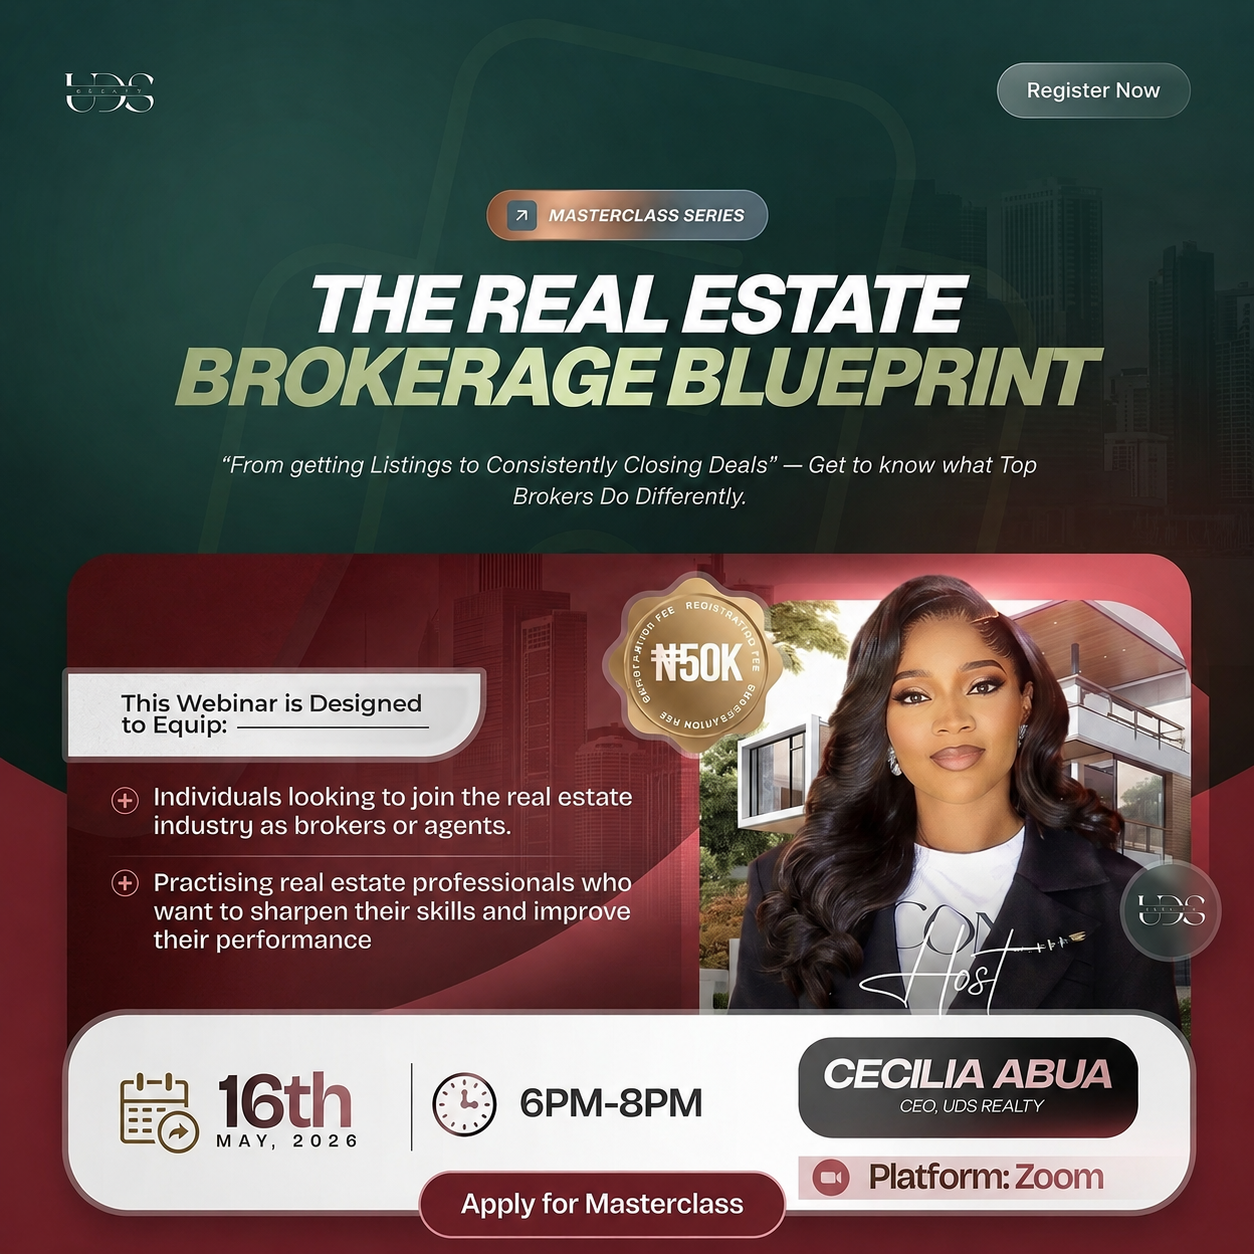
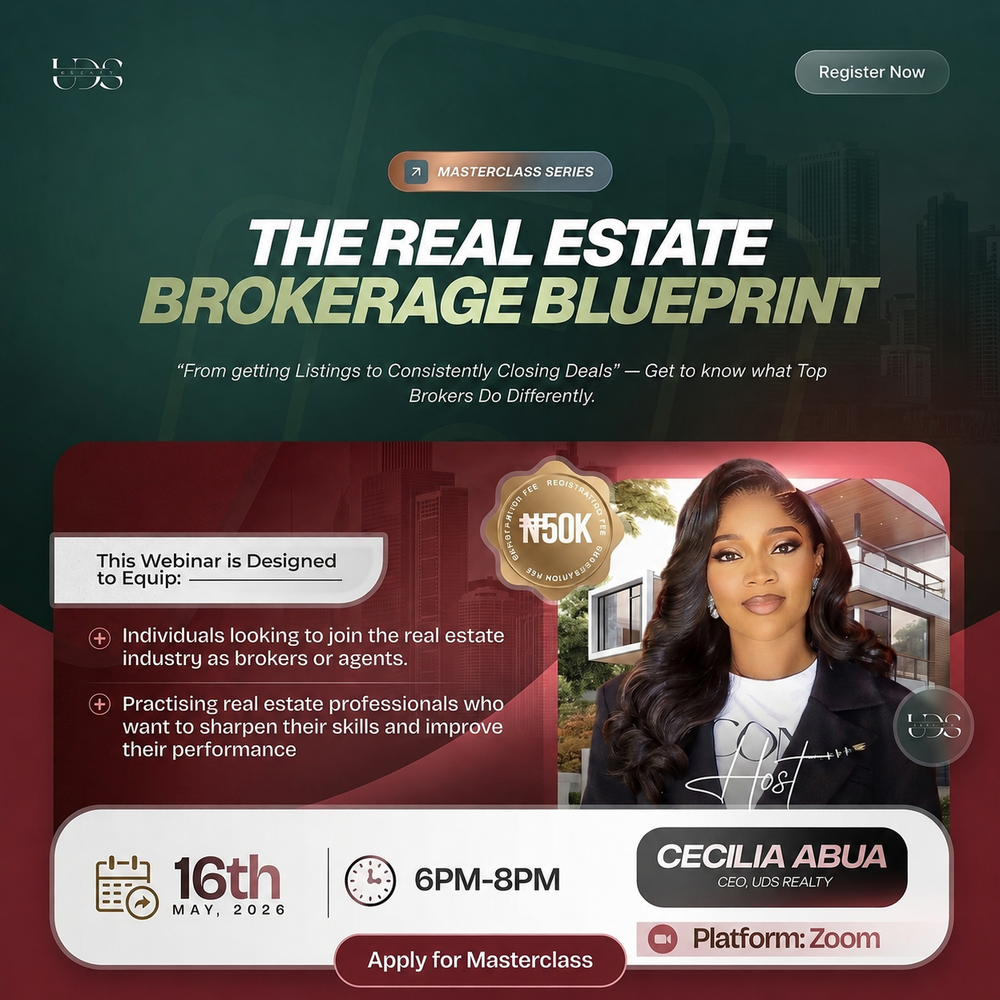
Optimize all project images with high-performance WebP formats and compressed fallbacks (95% size reduction)

Changed region(s): [[0.403, 0.372, 0.465, 0.403], [0.527, 0.372, 0.558, 0.403]]

diff --git a/index.html b/index.html
@@ -632,7 +632,7 @@ const projects=[
    name:'GymPilotPro',
    type:'AI-Powered Gym Management SaaS',
    tags:['SaaS','AI','Next.js','PostgreSQL'],
-   img:'gympilotpro.png',
+   img:'gympilotpro.webp',
    live:'https://gympilotpro.com',
    github:'https://github.com/Sliver14/gympilotpro',
    desc:'A comprehensive AI-driven ecosystem for gym owners. Featuring automated membership management, real-time analytics, AI-powered workout recommendations, and seamless trainer-client communication.',
@@ -648,7 +648,7 @@ const projects=[
    name:'Reno',
    type:'Cross-Platform FinTech & Crypto App',
    tags:['FinTech','React Native','Expo','Crypto','TypeScript'],
-   img:'reno-flyer.png',
+   img:'reno-flyer.webp',
    live:'https://drive.google.com/file/d/1byRoGDm47X0Srv4QjrFLX_34sRhGobHK/view?usp=sharing',
    github:'https://github.com/Sliver14/Reno',
    desc:'A modern FinTech mobile application bridging traditional banking with the crypto economy. Built with React Native and Expo, offering a unified platform for managing fiat (Naira) and digital assets.',
@@ -664,7 +664,7 @@ const projects=[
    name:'Network for Medical Missions',
    type:'Global Healthcare Outreach Platform',
    tags:['Healthcare','Next.js','Firebase','Global Outreach'],
-   img:'medical-missions.png',
+   img:'medical-missions.webp',
    live:'https://networkformedicalmissions.org',
    github:'https://github.com/Sliver14/networkformedicalmissions',
    desc:'A platform dedicated to coordinating and supporting medical missions globally, connecting volunteer healthcare professionals with clinics and communities worldwide.',
@@ -680,7 +680,7 @@ const projects=[
    name:'Esther Odejobi',
    type:'Executive Brand & Speaking Portfolio',
    tags:['Personal Brand','Frontend','React','Animations'],
-   img:'esther.png',
+   img:'esther.webp',
    live:'https://www.estherodejobi.com',
    github:'https://github.com/Sliver14/Esther-Odejobi',
    desc:'A high-converting personal brand, speaking portfolio and authority platform for author, speaker, and executive leader Esther Odejobi.',
@@ -696,7 +696,7 @@ const projects=[
    name:'Cecilia Abua',
    type:'Real Estate Brokerage Blueprint',
    tags:['Real Estate','Next.js','TailwindCSS','Web Design'],
-   img:'cecilia-abua.png',
+   img:'cecilia-abua.webp',
    live:'https://www.ceciliaabua.com',
    github:'https://github.com/Sliver14/cecilibua',
    desc:'Personal portfolio and high-converting commercial showcase for Cecilia Abua — providing investors with tailored real estate investment guidance and blueprint resources.',
@@ -721,7 +721,7 @@ document.getElementById('mq').innerHTML=[...marquee,...marquee,...marquee,...mar
 const stage=document.getElementById('stage');
 stage.innerHTML=projects.map((p,i)=>{
   const domain=p.live?p.live.replace(/^https?:\/\//,'').replace(/^www\./,'').split('/')[0]:p.name.toLowerCase()+'.app';
-  return `<div class="sl" data-i="${i}"><div class="pc"><div class="art"><div class="art-bar"><span class="art-dots"><i></i><i></i><i></i></span><span class="art-url">${domain}</span><span style="font-size:10px;font-weight:700;letter-spacing:.5px;color:var(--violet)">0${i+1}/0${projects.length}</span></div><div class="art-screen"><img src="${p.img}" alt="${p.name}" loading="lazy"><div class="art-overlay"></div><span class="art-tag">${p.tags[0]}</span></div></div><div class="pl"><div class="pl-head"><div><h4>${p.name}</h4><div class="pl-type">${p.type}</div></div></div><p class="pl-desc">${p.desc}</p><div class="pc-tags">${p.tags.slice(0,3).map(t=>`<span>${t}</span>`).join('')}</div><div class="pc-foot"><span class="pc-cta">Explore Architecture</span><span class="view-arr">↗</span></div></div></div></div>`;
+  return `<div class="sl" data-i="${i}"><div class="pc"><div class="art"><div class="art-bar"><span class="art-dots"><i></i><i></i><i></i></span><span class="art-url">${domain}</span><span style="font-size:10px;font-weight:700;letter-spacing:.5px;color:var(--violet)">0${i+1}/0${projects.length}</span></div><div class="art-screen"><img src="${p.img}" alt="${p.name}" ${i===0?'fetchpriority="high"':'loading="lazy"'} onerror="this.onerror=null;this.src=this.src.replace('.webp','.png')"><div class="art-overlay"></div><span class="art-tag">${p.tags[0]}</span></div></div><div class="pl"><div class="pl-head"><div><h4>${p.name}</h4><div class="pl-type">${p.type}</div></div></div><p class="pl-desc">${p.desc}</p><div class="pc-tags">${p.tags.slice(0,3).map(t=>`<span>${t}</span>`).join('')}</div><div class="pc-foot"><span class="pc-cta">Explore Architecture</span><span class="view-arr">↗</span></div></div></div></div>`;
 }).join('');
 document.getElementById('pd').innerHTML=projects.map((_,i)=>`<i data-i="${i}"></i>`).join('');
 
@@ -805,7 +805,7 @@ function openP(p){
     <span class="eb" style="margin-bottom:6px">${p.type}</span>
     <h3 style="margin-top:4px">${p.name}</h3>
     <div class="mb-img">
-      <img src="${p.img}" alt="${p.name}">
+      <img src="${p.img}" alt="${p.name}" loading="lazy" onerror="this.onerror=null;this.src=this.src.replace('.webp','.png')">
     </div>
     <p style="font-size:15px;line-height:1.6;color:var(--muted)">${p.desc}</p>
     <div style="margin:18px 0 8px;font-weight:700;font-size:12px;letter-spacing:2px;text-transform:uppercase;color:var(--ink)">Key Architectural Features</div>

diff --git a/insightnovatech-v2.html b/insightnovatech-v2.html
@@ -632,7 +632,7 @@ const projects=[
    name:'GymPilotPro',
    type:'AI-Powered Gym Management SaaS',
    tags:['SaaS','AI','Next.js','PostgreSQL'],
-   img:'gympilotpro.png',
+   img:'gympilotpro.webp',
    live:'https://gympilotpro.com',
    github:'https://github.com/Sliver14/gympilotpro',
    desc:'A comprehensive AI-driven ecosystem for gym owners. Featuring automated membership management, real-time analytics, AI-powered workout recommendations, and seamless trainer-client communication.',
@@ -648,7 +648,7 @@ const projects=[
    name:'Reno',
    type:'Cross-Platform FinTech & Crypto App',
    tags:['FinTech','React Native','Expo','Crypto','TypeScript'],
-   img:'reno-flyer.png',
+   img:'reno-flyer.webp',
    live:'https://drive.google.com/file/d/1byRoGDm47X0Srv4QjrFLX_34sRhGobHK/view?usp=sharing',
    github:'https://github.com/Sliver14/Reno',
    desc:'A modern FinTech mobile application bridging traditional banking with the crypto economy. Built with React Native and Expo, offering a unified platform for managing fiat (Naira) and digital assets.',
@@ -664,7 +664,7 @@ const projects=[
    name:'Network for Medical Missions',
    type:'Global Healthcare Outreach Platform',
    tags:['Healthcare','Next.js','Firebase','Global Outreach'],
-   img:'medical-missions.png',
+   img:'medical-missions.webp',
    live:'https://networkformedicalmissions.org',
    github:'https://github.com/Sliver14/networkformedicalmissions',
    desc:'A platform dedicated to coordinating and supporting medical missions globally, connecting volunteer healthcare professionals with clinics and communities worldwide.',
@@ -680,7 +680,7 @@ const projects=[
    name:'Esther Odejobi',
    type:'Executive Brand & Speaking Portfolio',
    tags:['Personal Brand','Frontend','React','Animations'],
-   img:'esther.png',
+   img:'esther.webp',
    live:'https://www.estherodejobi.com',
    github:'https://github.com/Sliver14/Esther-Odejobi',
    desc:'A high-converting personal brand, speaking portfolio and authority platform for author, speaker, and executive leader Esther Odejobi.',
@@ -696,7 +696,7 @@ const projects=[
    name:'Cecilia Abua',
    type:'Real Estate Brokerage Blueprint',
    tags:['Real Estate','Next.js','TailwindCSS','Web Design'],
-   img:'cecilia-abua.png',
+   img:'cecilia-abua.webp',
    live:'https://www.ceciliaabua.com',
    github:'https://github.com/Sliver14/cecilibua',
    desc:'Personal portfolio and high-converting commercial showcase for Cecilia Abua — providing investors with tailored real estate investment guidance and blueprint resources.',
@@ -721,7 +721,7 @@ document.getElementById('mq').innerHTML=[...marquee,...marquee,...marquee,...mar
 const stage=document.getElementById('stage');
 stage.innerHTML=projects.map((p,i)=>{
   const domain=p.live?p.live.replace(/^https?:\/\//,'').replace(/^www\./,'').split('/')[0]:p.name.toLowerCase()+'.app';
-  return `<div class="sl" data-i="${i}"><div class="pc"><div class="art"><div class="art-bar"><span class="art-dots"><i></i><i></i><i></i></span><span class="art-url">${domain}</span><span style="font-size:10px;font-weight:700;letter-spacing:.5px;color:var(--violet)">0${i+1}/0${projects.length}</span></div><div class="art-screen"><img src="${p.img}" alt="${p.name}" loading="lazy"><div class="art-overlay"></div><span class="art-tag">${p.tags[0]}</span></div></div><div class="pl"><div class="pl-head"><div><h4>${p.name}</h4><div class="pl-type">${p.type}</div></div></div><p class="pl-desc">${p.desc}</p><div class="pc-tags">${p.tags.slice(0,3).map(t=>`<span>${t}</span>`).join('')}</div><div class="pc-foot"><span class="pc-cta">Explore Architecture</span><span class="view-arr">↗</span></div></div></div></div>`;
+  return `<div class="sl" data-i="${i}"><div class="pc"><div class="art"><div class="art-bar"><span class="art-dots"><i></i><i></i><i></i></span><span class="art-url">${domain}</span><span style="font-size:10px;font-weight:700;letter-spacing:.5px;color:var(--violet)">0${i+1}/0${projects.length}</span></div><div class="art-screen"><img src="${p.img}" alt="${p.name}" ${i===0?'fetchpriority="high"':'loading="lazy"'} onerror="this.onerror=null;this.src=this.src.replace('.webp','.png')"><div class="art-overlay"></div><span class="art-tag">${p.tags[0]}</span></div></div><div class="pl"><div class="pl-head"><div><h4>${p.name}</h4><div class="pl-type">${p.type}</div></div></div><p class="pl-desc">${p.desc}</p><div class="pc-tags">${p.tags.slice(0,3).map(t=>`<span>${t}</span>`).join('')}</div><div class="pc-foot"><span class="pc-cta">Explore Architecture</span><span class="view-arr">↗</span></div></div></div></div>`;
 }).join('');
 document.getElementById('pd').innerHTML=projects.map((_,i)=>`<i data-i="${i}"></i>`).join('');
 
@@ -805,7 +805,7 @@ function openP(p){
     <span class="eb" style="margin-bottom:6px">${p.type}</span>
     <h3 style="margin-top:4px">${p.name}</h3>
     <div class="mb-img">
-      <img src="${p.img}" alt="${p.name}">
+      <img src="${p.img}" alt="${p.name}" loading="lazy" onerror="this.onerror=null;this.src=this.src.replace('.webp','.png')">
     </div>
     <p style="font-size:15px;line-height:1.6;color:var(--muted)">${p.desc}</p>
     <div style="margin:18px 0 8px;font-weight:700;font-size:12px;letter-spacing:2px;text-transform:uppercase;color:var(--ink)">Key Architectural Features</div>
